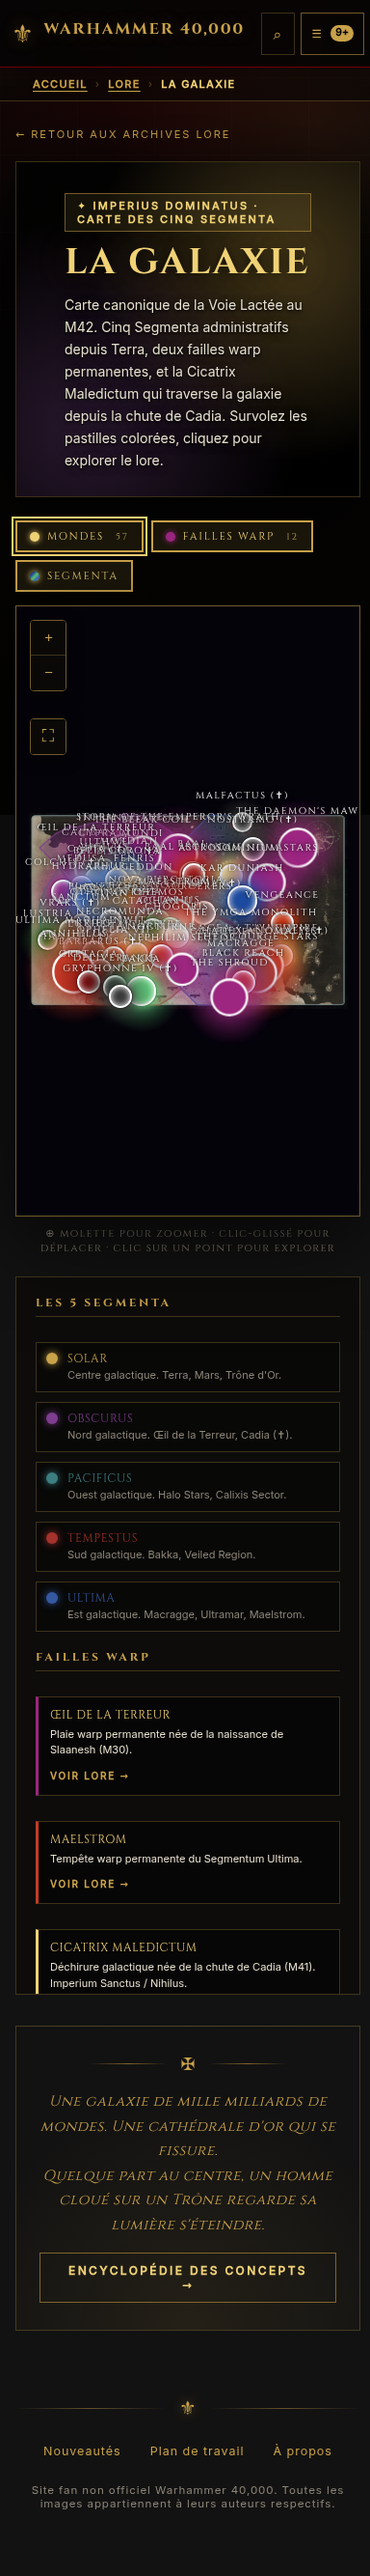
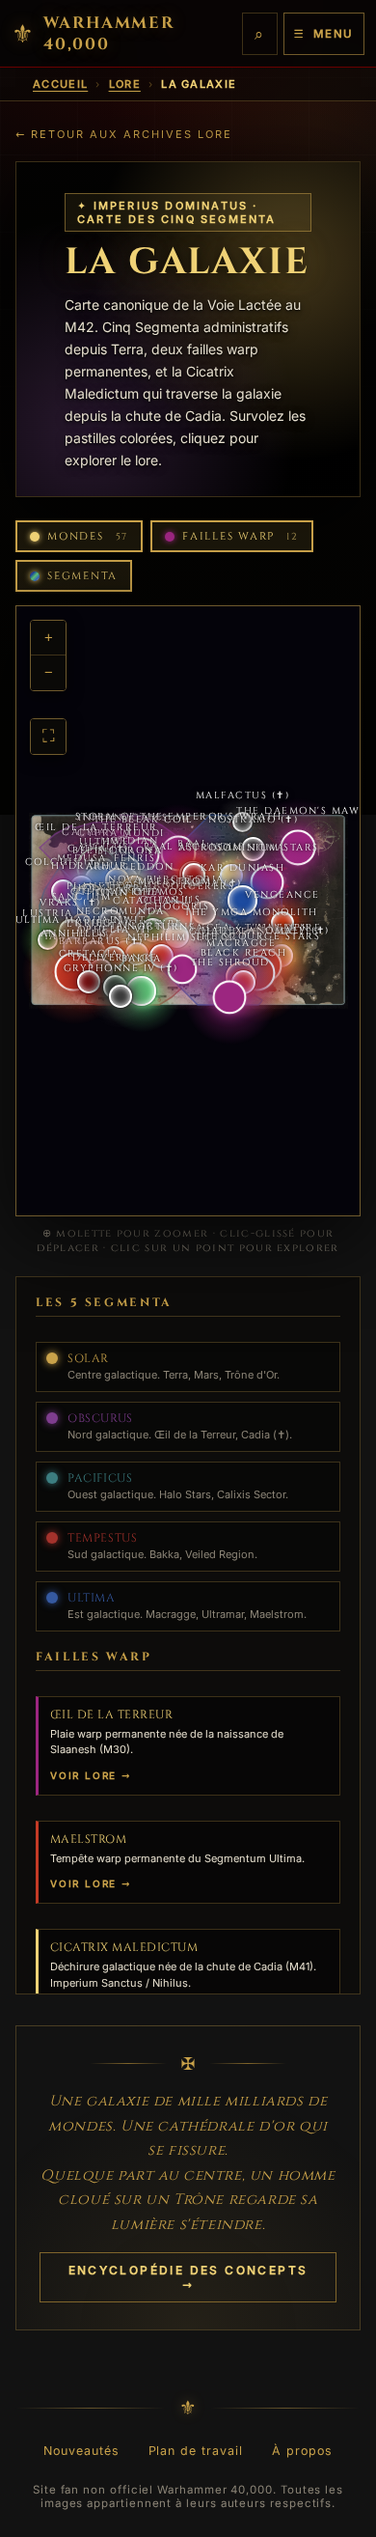
feat(L208): captures Nouveautés de la Galaxie reprises carte cadrée (1440 et 390 px), texte alternatif fidèle

diff --git a/docs/nouveautes/2026-10-27-galaxie-filtres-annonces-carte-nommee-calibration-reservee.md b/docs/nouveautes/2026-10-27-galaxie-filtres-annonces-carte-nommee-calibration-reservee.md
@@ -4,8 +4,8 @@ date: 2026-10-27
 created: 2026-10-27T19:48+01:00
 lots: [L14]
 captures:
-  - { file: captures/L14-galaxie-1440.png, alt: "Page La Galaxie à 1440 px : filtres Mondes et Segmenta actifs, Failles warp désactivé, carte des Cinq Segmenta" }
-  - { file: captures/L14-galaxie-390.png, alt: "La même page sur téléphone (390 px), sans défilement horizontal" }
+  - { file: captures/L14-galaxie-1440.png, alt: "Page La Galaxie à 1440 px : les trois filtres Mondes, Failles warp et Segmenta tous actifs, la carte des Cinq Segmenta entièrement cadrée avec ses pastilles, la liste des segmenta à droite" }
+  - { file: captures/L14-galaxie-390.png, alt: "La même page à 390 px de large : filtres sur deux lignes, carte entière cadrée dans son encadré, sans défilement horizontal" }
 # une capture peut dire ce qu'elle montre : captures: [{ file: captures/x.png, alt: "texte alternatif" }]
 # nocapture: raison, quand une capture n'a pas de sens
 ---
